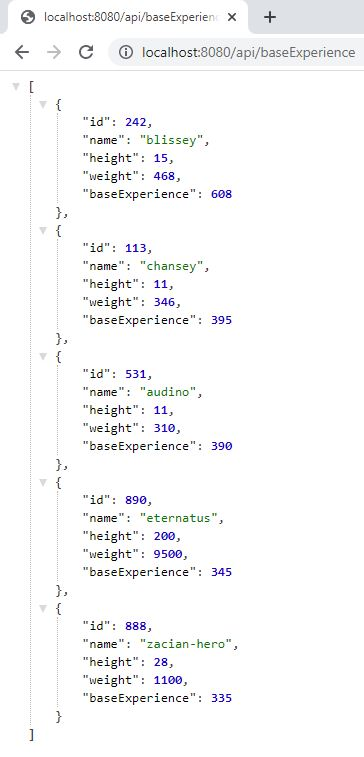
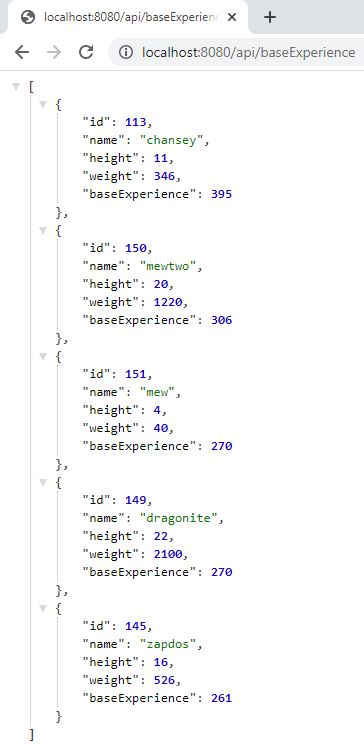
Clean some code & add log4j

diff --git a/src/main/java/com/alesa/pokemon/Services/impl/PokemonServiceImpl.java b/src/main/java/com/alesa/pokemon/Services/impl/PokemonServiceImpl.java
@@ -1,9 +1,12 @@
 package com.alesa.pokemon.Services.impl;
 
 import com.alesa.pokemon.Entities.PokemonEntity;
+import com.alesa.pokemon.JSON.PokeApiCountRest;
 import com.alesa.pokemon.JSON.PokemonRest;
 import com.alesa.pokemon.Repositories.PokemonRepository;
 import com.alesa.pokemon.Services.PokemonService;
+import org.apache.log4j.LogManager;
+import org.apache.log4j.Logger;
 import org.springframework.beans.factory.annotation.Autowired;
 import org.springframework.http.HttpEntity;
 import org.springframework.http.HttpHeaders;
@@ -18,7 +21,10 @@ import java.util.List;
 @Service
 public class PokemonServiceImpl implements PokemonService {
 
+    private static final Logger logger = LogManager.getLogger(PokemonServiceImpl.class);
+    static final String BASE_API_URL = "https://pokeapi.co/api/v2/pokemon/";
     static final String API_URL = "https://pokeapi.co/api/v2/pokemon/{index}/";
+
 
     boolean isDataBaseLoaded = false;
 
@@ -35,27 +41,46 @@ public class PokemonServiceImpl implements PokemonService {
         headers.add("user-agent", "Mozilla/5.0 (Windows NT 10.0; Win64; x64) AppleWebKit/537.36 (KHTML, like Gecko) Chrome/54.0.2840.99 Safari/537.36");
         HttpEntity<String> entity = new HttpEntity<String>(headers);
 
+        logger.info("Loanding all Pokemons from PokeAPI to local H2 Database. This can take up to 2 minutes.");
 
         try {
             isDataBaseLoaded = true;
-            for (int i = 0; i < 1118; i++) {
+            int maxPokemon = this.getMaxPokemonCount();
 
-                //System.out.println("Loanding all Pokemons from PokeAPI to local H2 Database, please wait ...");
+            for (int i = 0; i < maxPokemon; i++) {
+
+                //System.out.println(String.format("Loanding all Pokemons from PokeAPI to local H2 Database, please wait ... ( %d / %d)", i + 1, maxPokemon));
                 ResponseEntity<PokemonRest> response = restTemplate.exchange(String.format(API_URL, i + 1), HttpMethod.GET, entity,
                         PokemonRest.class, i + 1);
 
+                boolean isRedVersion = response.getBody().getGameIndicesRestList().stream().anyMatch(gameIndicesRest ->
+                        gameIndicesRest.getVersionRest().getName().equals("red"));
 
-                System.out.println(response);
-                pokemonRepository.save(new PokemonEntity(response.getBody().getId(), response.getBody().getName(),
-                        response.getBody().getHeight(), response.getBody().getWeight(), response.getBody().getBaseExperience()));
-
-
+                if (isRedVersion) {
+                    pokemonRepository.save(new PokemonEntity(response.getBody().getId(), response.getBody().getName(),
+                            response.getBody().getHeight(), response.getBody().getWeight(), response.getBody().getBaseExperience()));
+                }
             }
         } catch (HttpClientErrorException e) {
-
+            //Do nothing
         }
+        logger.info("Load all Red Pokemons from PokeAPI to local H2 Database. FINISHED!");
+
+    }
+
+    private int getMaxPokemonCount() {
+
+        RestTemplate restTemplate = new RestTemplate();
+        HttpHeaders headers = new HttpHeaders();
+        headers.add("Connection", "Close");
+        headers.add("user-agent", "Mozilla/5.0 (Windows NT 10.0; Win64; x64) AppleWebKit/537.36 (KHTML, like Gecko) Chrome/54.0.2840.99 Safari/537.36");
+        HttpEntity<String> entity = new HttpEntity<String>(headers);
 
 
+        ResponseEntity<PokeApiCountRest> response = restTemplate.exchange(BASE_API_URL, HttpMethod.GET, entity,
+                PokeApiCountRest.class);
+
+        return response.getBody().getCount();
     }
 
 

diff --git a/src/main/java/com/alesa/pokemon/JSON/GameIndicesRest.java b/src/main/java/com/alesa/pokemon/JSON/GameIndicesRest.java
@@ -1,0 +1,21 @@
+package com.alesa.pokemon.JSON;
+
+import com.fasterxml.jackson.annotation.JsonProperty;
+import lombok.AllArgsConstructor;
+import lombok.Builder;
+import lombok.Data;
+import lombok.NoArgsConstructor;
+
+@Data
+@Builder
+@AllArgsConstructor
+@NoArgsConstructor
+public class GameIndicesRest {
+
+    @JsonProperty("game_index")
+    private int game_index;
+
+    @JsonProperty("version")
+    private VersionRest versionRest;
+
+}

diff --git a/src/main/java/com/alesa/pokemon/JSON/VersionRest.java b/src/main/java/com/alesa/pokemon/JSON/VersionRest.java
@@ -1,0 +1,20 @@
+package com.alesa.pokemon.JSON;
+
+import com.fasterxml.jackson.annotation.JsonProperty;
+import lombok.AllArgsConstructor;
+import lombok.Builder;
+import lombok.Data;
+import lombok.NoArgsConstructor;
+
+@Data
+@Builder
+@AllArgsConstructor
+@NoArgsConstructor
+public class VersionRest {
+
+    @JsonProperty("name")
+    private String name;
+
+    @JsonProperty("url")
+    private String url;
+}

diff --git a/src/main/java/com/alesa/pokemon/JSON/PokeApiCountRest.java b/src/main/java/com/alesa/pokemon/JSON/PokeApiCountRest.java
@@ -1,0 +1,19 @@
+package com.alesa.pokemon.JSON;
+
+import com.fasterxml.jackson.annotation.JsonProperty;
+import lombok.AllArgsConstructor;
+import lombok.Builder;
+import lombok.Data;
+import lombok.NoArgsConstructor;
+
+@Data
+@Builder
+@AllArgsConstructor
+@NoArgsConstructor
+public class PokeApiCountRest {
+
+    @JsonProperty("count")
+    private int count;
+
+
+}

diff --git a/src/main/java/com/alesa/pokemon/JSON/PokemonRest.java b/src/main/java/com/alesa/pokemon/JSON/PokemonRest.java
@@ -6,6 +6,8 @@ import lombok.Builder;
 import lombok.Data;
 import lombok.NoArgsConstructor;
 
+import java.util.List;
+
 @Data
 @Builder
 @AllArgsConstructor
@@ -26,5 +28,8 @@ public class PokemonRest {
 
     @JsonProperty("weight")
     private int weight;
+
+    @JsonProperty("game_indices")
+    private List<GameIndicesRest> gameIndicesRestList;
 
 }
